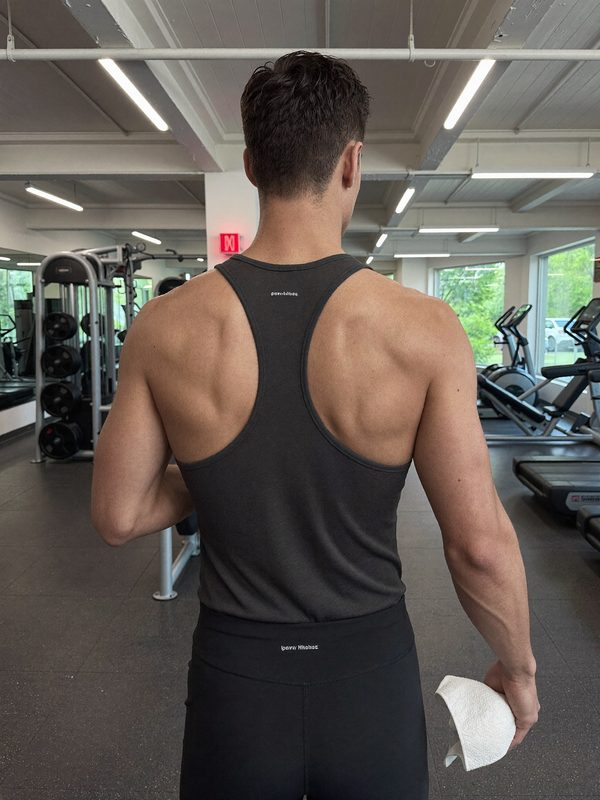
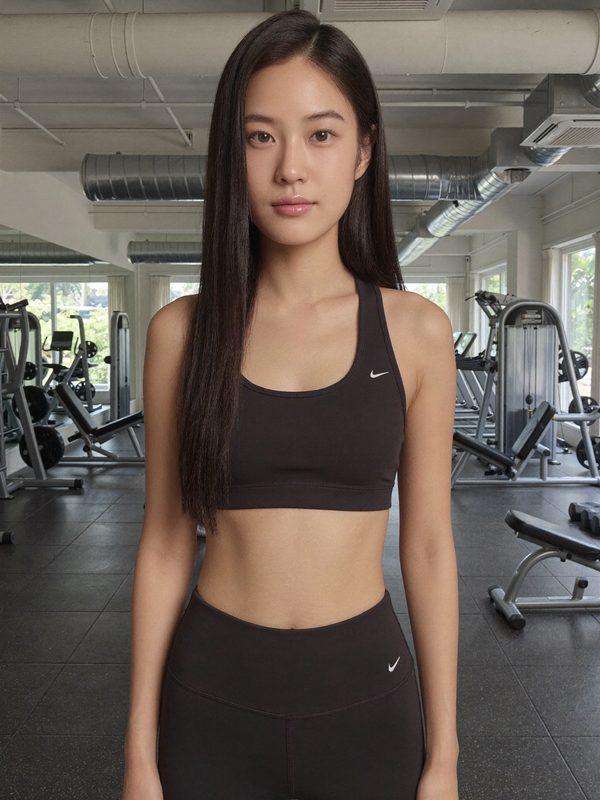
chore(shoot): 얼굴 안 보이던 썸네일 3장(짐·꽃시장·거울셀피) 교체 + thumbs --only/--shift

diff --git a/scripts/shoot_roster.js b/scripts/shoot_roster.js
@@ -10,7 +10,7 @@
  *   NODE_ENV=development node scripts/shoot_roster.js yuna                 # 유나(이미 학습된 Soul ID + 정적 뱅크 /img/shoot/yuna) 를 official 행으로
  *   NODE_ENV=development node scripts/shoot_roster.js retry                 # 학습 실패 행(관리자 것, 비공식) 을 같은 사진으로 다시 — 성공하면 official, 실패 행은 지운다
  *   NODE_ENV=development node scripts/shoot_roster.js thumbs <출력 폴더>   # Shoot 템플릿 28종 썸네일 — 공식 모델을 돌아가며 한 장씩(→ public/img/shoot/tpl/NN.jpg)
- * 옵션: --owner <userId>(기본 관리자) --angles 4 --train 6
+ * 옵션: --owner <userId>(기본 관리자) --angles 4 --train 6 · thumbs: --only 14,23,24(번호만 다시) --shift 3(모델 배정 밀기)
  */
 const fs = require('fs');
 const path = require('path');
@@ -105,9 +105,12 @@ async function thumbs(outDir) {
   const tpl = [...html.matchAll(/^ \['[^']*','([^']+)','([^']+)'\],$/gm)].map((m) => [m[1], m[2]]); // SHOT_TPL 과 같은 순서
   const models = await repo.findOfficial();
   if (!models.length) throw new Error('no official models');
-  log(`thumbs: ${tpl.length} templates over ${models.length} models`);
-  const out = await pool(tpl.map((t, i) => [t, i]), 6, async ([[name, prompt], i]) => {
-    const m = models[i % models.length];
+  const only = opt('only', '').split(',').filter(Boolean).map((n) => +n - 1); // --only 14,23 = 그 번호만 다시(얼굴이 안 보이는 컷 교체)
+  const shift = +opt('shift', 0); // 모델 배정을 밀어 다른 모델로
+  const jobs = tpl.map((t, i) => [t, i]).filter(([, i]) => !only.length || only.includes(i));
+  log(`thumbs: ${jobs.length} templates over ${models.length} models`);
+  const out = await pool(jobs, 6, async ([[name, prompt], i]) => {
+    const m = models[(i + shift) % models.length];
     const r = await svc.shot(USER, m.id, { prompt, count: 1, aspectRatio: '3:4', privateMode: true });
     const res = r.results[0];
     if (!res.success) throw new Error(`${name}: ${res.error}`);
